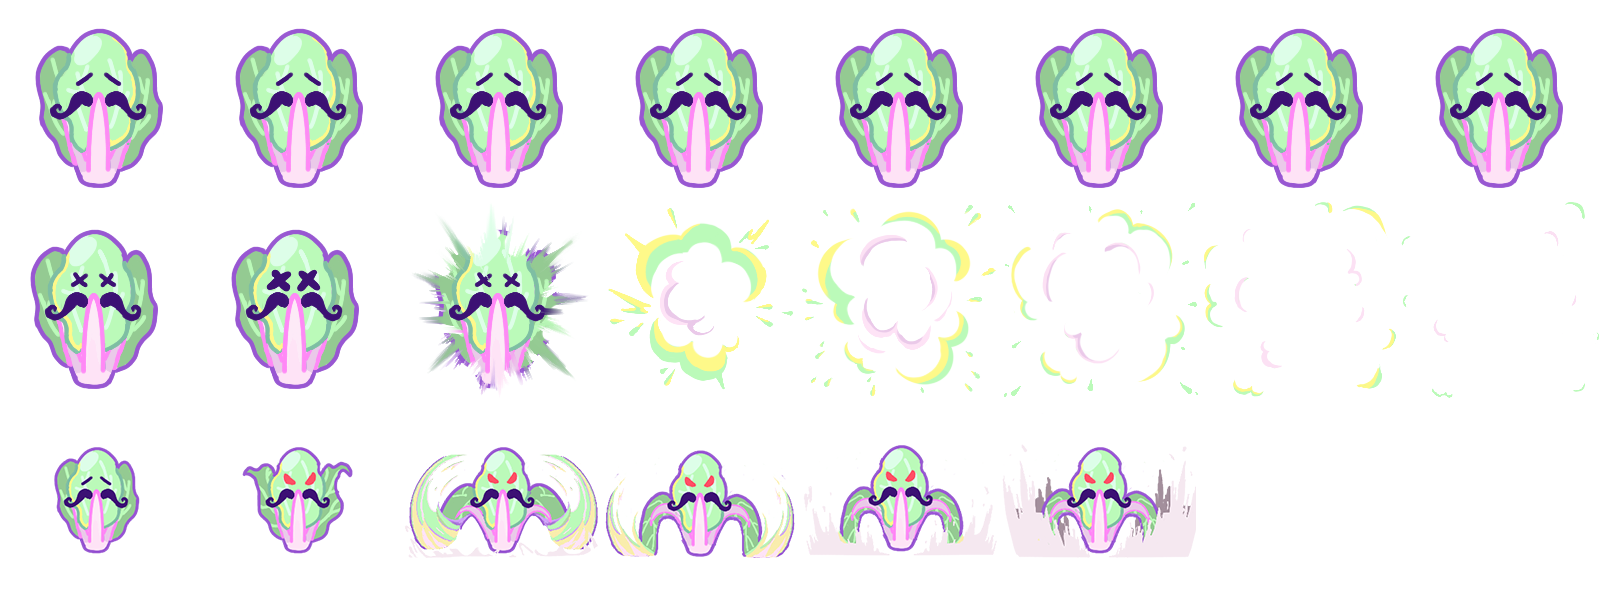
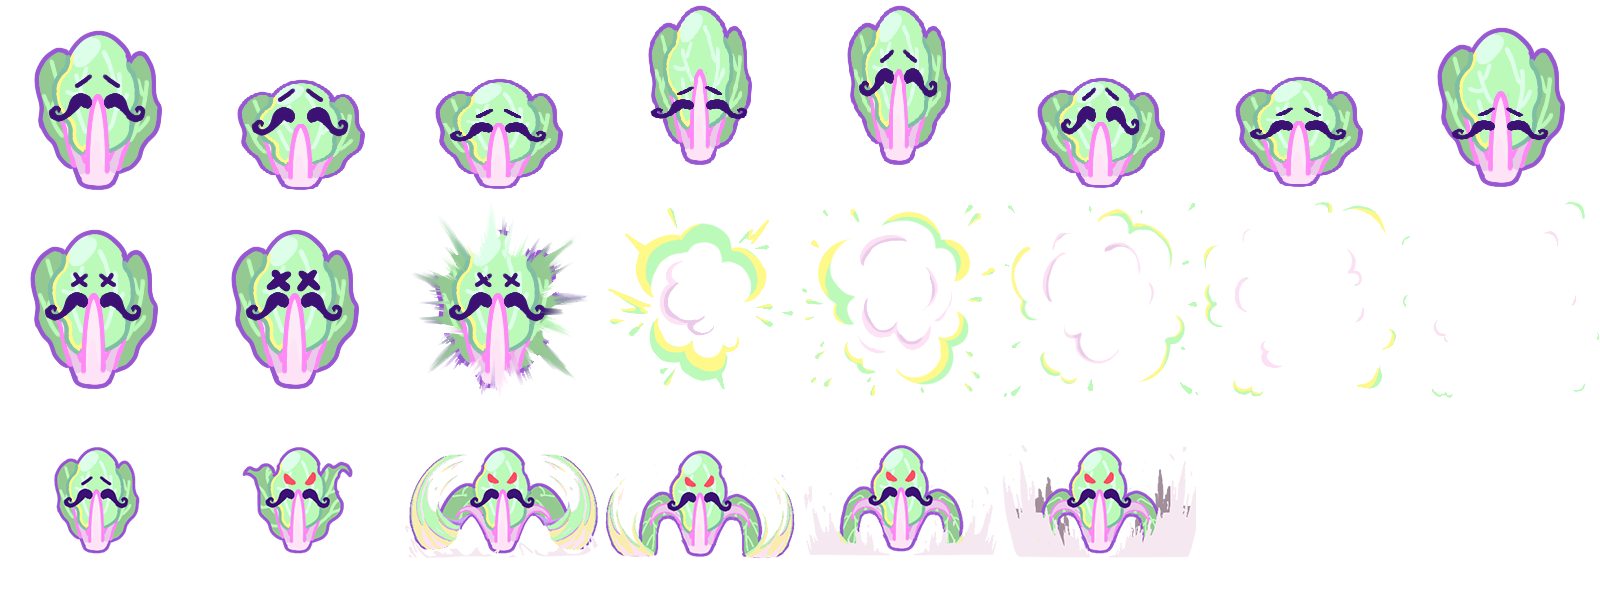
Final Prototype2

Changed region(s): [[0.125, 0.0, 1.0, 0.33], [0.0, 0.06, 0.0938, 0.33]]

diff --git a/_Models/Enemy/Stage1/Elite1.cs b/_Models/Enemy/Stage1/Elite1.cs
@@ -20,6 +20,8 @@ namespace Advencursor._Models.Enemy.Stage1
         public bool isSlamming;
         public bool isSlam;
 
+
+        public float stopCooldown;
         public float stunduration;
         public float stuntimer;
         public bool stunned;
@@ -31,7 +33,7 @@ namespace Advencursor._Models.Enemy.Stage1
         {
             animations = new Dictionary<string, Animation>
             {
-                { "Idle", new(texture, row, column,1,  8, true) },
+                { "Idle", new(texture, row, column,1,  8, false) },
                 { "Attack", new(texture,row,column,6,3,8,true) },
                 { "Charge",new(texture,row,column,1,8,true) },
                 { "Stun",new(texture,row,column,1,8,true) },
@@ -45,6 +47,7 @@ namespace Advencursor._Models.Enemy.Stage1
             isSlam = false;
             isSlamming = false;
             slamCooldown = 10f;
+            stopCooldown = 0f;
         }
 
         public override void Update(GameTime gameTime)
@@ -66,12 +69,29 @@ namespace Advencursor._Models.Enemy.Stage1
                 if (!isSlam && !stunned)
                 {
                     indicator = "Idle";
-                    velocity = new(150);
-                    if (Status.isParalysis)
-                    {
-                        velocity = new(75);
-                    }
                     movementAI.Move(this);
+                    
+                    
+                    if (animations["Idle"].IsComplete)
+                    {
+                        animations["Idle"].PauseFrame(1);
+                        stopCooldown =0.25f;   
+                    }
+                    if (stopCooldown >= 0)
+                    {
+                        stopCooldown -= TimeManager.TimeGlobal;
+                        velocity = new(0);
+                    }
+                    else
+                    {
+                        if(animations["Idle"].IsPause) animations["Idle"].Reset();
+                        animations["Idle"].IsPause = false;
+                        velocity = new(150);
+                        if (Status.isParalysis)
+                        {
+                            velocity = new(75);
+                        }
+                    }
                     slamCooldown += TimeManager.TimeGlobal;
                 }
                 if (isSlam)

diff --git a/_Skill/Thunder Set/Skill_E_ThunderSpeed.cs b/_Skill/Thunder Set/Skill_E_ThunderSpeed.cs
@@ -112,6 +112,7 @@ namespace Advencursor._Skill.Thunder_Set
                     ParticleManager.RemoveParticleEmitter(pe);
                     ParticleManager.RemoveParticleEmitter(pe1);
                     isUsing = false;
+                    player.SetAttackDelay(oldPlayerDelay);
                 }
 
                 collision.Add(new Rectangle((int)player.position.X,(int)player.position.Y,10,10));
@@ -122,7 +123,6 @@ namespace Advencursor._Skill.Thunder_Set
                     {
                         if (collision.Any(collide => collide.Intersects(Globals.EnemyManager[i].collision)) && Globals.EnemyManager[i].Status.IsAlive())
                         {
-                            
                             Globals.EnemyManager[i].TakeDamage(skillMultiplier, player);
                             collisionCooldown[i] = 0.1f;
                         }
@@ -131,7 +131,6 @@ namespace Advencursor._Skill.Thunder_Set
 
                 for (int i = 0; i < collisionCooldown.Count; i++)
                 {
-                    player.SetAttackDelay(oldPlayerDelay);
                     collisionCooldown[i] -= TimeManager.TimeGlobal;
                 }
                 

diff --git a/_Scene/Stage/Stage1.cs b/_Scene/Stage/Stage1.cs
@@ -113,7 +113,7 @@ namespace Advencursor._Scene.Stage
             //Player
             Texture2D playertexture = Globals.Content.Load<Texture2D>("playerTexture");
             player = new(playertexture, new Vector2(Globals.Bounds.X / 2, Globals.Bounds.Y / 2), 1, 1, 1, 1);
-            player.LoadPlayer(4, 1);
+            player.LoadPlayer(2, 1);
             damageNumberManager.SubscribeToTakeDamageEvent(player.Status, player);
             inventory.LoadInventory(tempTexture);
             gameData.LoadData();
@@ -538,7 +538,7 @@ namespace Advencursor._Scene.Stage
             }
 
             //Elite1
-            if (elite_spawn_time > 15f && !boss_spawned)
+            if (elite_spawn_time > 1f && !boss_spawned)
             {
                 if (elite_count < elite_max)
                 {

diff --git a/_Models/Player.cs b/_Models/Player.cs
@@ -63,8 +63,8 @@ namespace Advencursor._Models
             {
                 { "Normal_Idle", new(texture, row, column,1,  TimeManager.framerate, true) },
                 { "Normal_Attack", new(texture, row, column,2,  TimeManager.framerate, true) },
-                { "Thunder_Idle", new(texture, row, column,3,  TimeManager.framerate, true) },
-                { "Thunder_Attack", new(texture, row, column,4,  TimeManager.framerate, true) }
+                { "Thunder_Idle", new(texture, row, column,1,  TimeManager.framerate, true) },
+                { "Thunder_Attack", new(texture, row, column,2,  TimeManager.framerate, true) }
             };
             
             Skills = new Dictionary<Keys, Skill>();

diff --git a/_Scene/Stage/Stage2.cs b/_Scene/Stage/Stage2.cs
@@ -98,7 +98,7 @@ namespace Advencursor._Scene.Stage
             //Player
             Texture2D playertexture = Globals.Content.Load<Texture2D>("playerTexture");
             player = new(playertexture, new Vector2(Globals.Bounds.X / 2, Globals.Bounds.Y / 2), 1, 1, 1, 1);
-            player.LoadPlayer(4, 1);
+            player.LoadPlayer(2, 1);
             inventory.LoadInventory(tempTexture);
             damageNumberManager.SubscribeToTakeDamageEvent(player.Status, player);
 

diff --git a/_Models/Enemy/Stage1/Common1.cs b/_Models/Enemy/Stage1/Common1.cs
@@ -36,7 +36,7 @@ namespace Advencursor._Models.Enemy._CommonEnemy
             animations = new Dictionary<string, Animation>
             {
                 { "Walk", new(texture, row, column,2,  8, false) },
-                { "Attack", new(texture,row,column,2,8,true) },
+                { "Attack", new(texture,row,column,1,8,true) },
                 { "Die", new(texture,row,column,3,12,false) },
             };
             indicator = "Walk";

diff --git a/Game1.cs b/Game1.cs
@@ -69,7 +69,7 @@ namespace Advencursor
             gameData.LoadData();
 
 
-            _sceneManager.AddScene(new MenuScene(Content, _sceneManager));
+            _sceneManager.AddScene(new Stage1(Content, _sceneManager));
         }
 
         protected override void Update(GameTime gameTime)
